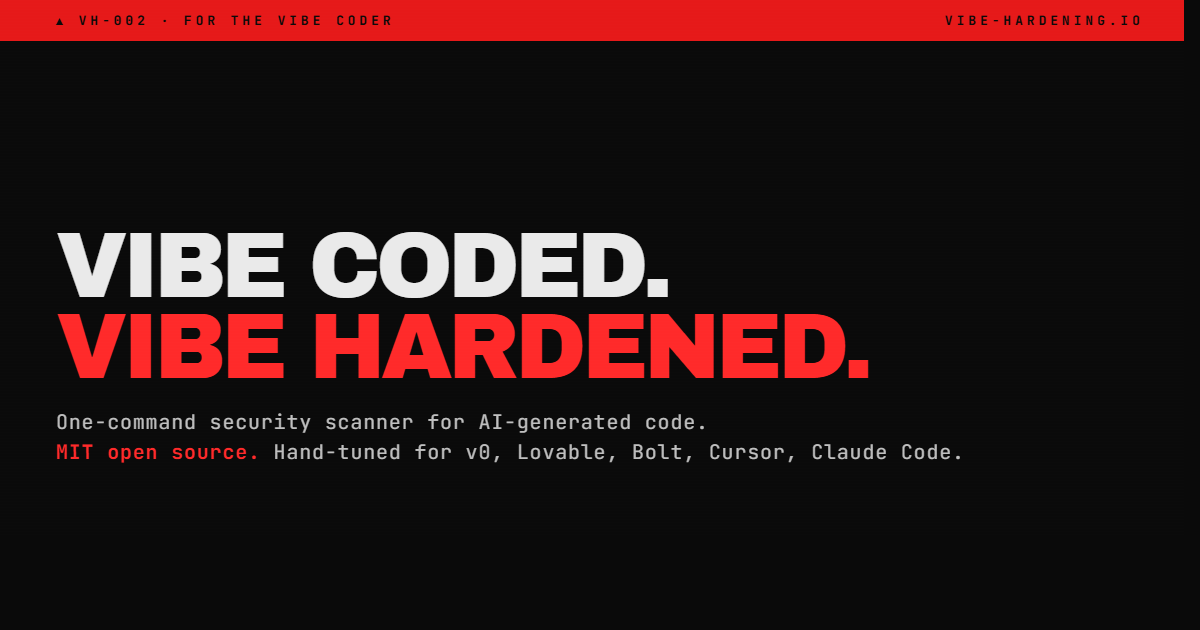
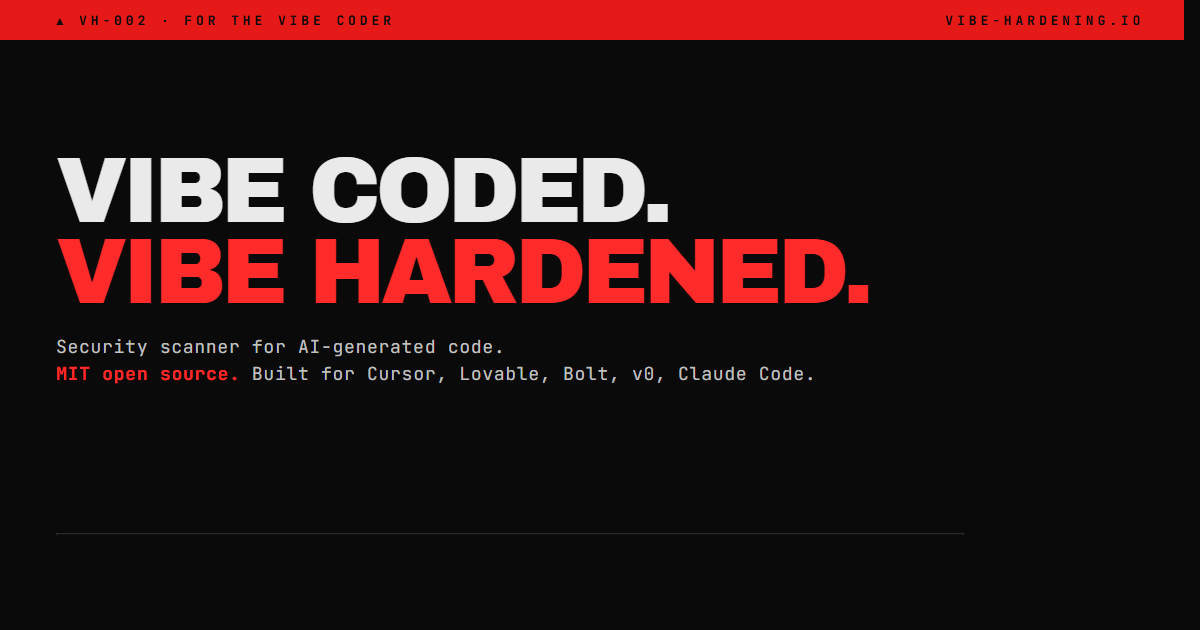
release: 0.1.0 — first non-preview, latest tag promoted
Drops the `-preview.0` suffix that the 0.0.x line carried. No code
changes vs 0.0.20-preview.0 — label-only bump signalling "the
surface area is stable enough to commit to". `latest` dist-tag
already pointed here from the earlier in-session promotion; this
finalises the move with a non-suffixed version number for visual
trust on PH listings, npm package page, and search snippets.

Cumulative state at 0.1.0: 3 commands, 12 scan flags, 4 output
formats (console / json / html / markdown), 51 rules across 9
categories, 9 live-key verifiers, OSV.dev-enriched explain blocks,
GitHub Marketplace listing, 309 unit tests.

Landing REV bumped 0.0.20 → 0.1.0.

diff --git a/web/app/layout.tsx b/web/app/layout.tsx
@@ -36,14 +36,22 @@ const serif = EB_Garamond({
   display: 'swap',
 });
 
+// Social-preview metadata (FB / X / LinkedIn / Slack unfurls).
+// Lengths tuned per opengraph.xyz audit: title 55-60 chars,
+// description 110-160 chars. The browser-tab `<title>` (first
+// `title` field below) stays longer for SEO; OG/Twitter overrides
+// keep the social preview tight and benefit-driven.
+const OG_TITLE = 'vibe-hardening — security scanner for AI-generated code';
+const OG_DESCRIPTION =
+  'Vibe coded. Vibe hardened. One npx command, 51 rules, 9 live secret verifiers. Built for output from Cursor, Lovable, Bolt, v0, Claude Code. MIT.';
+
 export const metadata: Metadata = {
   title: 'vibe-hardening / one-command security scanner for AI-generated code',
-  description:
-    'Vibe coded. Vibe hardened. Security scanner built for v0, Lovable, Bolt, Cursor and Claude Code output. 0 config, 5 seconds.',
+  description: OG_DESCRIPTION,
   metadataBase: new URL('https://vibe-hardening.io'),
   openGraph: {
-    title: 'vibe-hardening',
-    description: 'One-command security scanner for AI-generated code.',
+    title: OG_TITLE,
+    description: OG_DESCRIPTION,
     url: 'https://vibe-hardening.io',
     siteName: 'vibe-hardening',
     type: 'website',
@@ -58,8 +66,8 @@ export const metadata: Metadata = {
   },
   twitter: {
     card: 'summary_large_image',
-    title: 'vibe-hardening',
-    description: 'One-command security scanner for AI-generated code.',
+    title: OG_TITLE,
+    description: OG_DESCRIPTION,
     images: ['/og.png'],
   },
   robots: { index: true, follow: true },

diff --git a/web/app/_lib/strings.ts b/web/app/_lib/strings.ts
@@ -99,7 +99,7 @@ export const strings: Record<Locale, Strings> = {
       'vibe-hardening / one-command security scanner for AI-generated code',
     classbar: {
       unit: '▲ VH-001 · FOR THE VIBE CODER ·',
-      rev: 'REV 0.0.20 · CHAN 20',
+      rev: 'REV 0.1.0 · CHAN 21',
       geo: 'LAT 25.03°N · LNG 121.56°E',
       date: '▲ 2026-04-20 ▲',
     },
@@ -237,7 +237,7 @@ export const strings: Record<Locale, Strings> = {
         'Optional — what do you want this scanner to catch? what AI tool burned you last? (we read every reply)',
     },
     footer: {
-      brandCopy: '© 2026 · MIT · REV 0.0.20',
+      brandCopy: '© 2026 · MIT · REV 0.1.0',
       colProductTitle: 'PRODUCT',
       colProductItems: ['CLI', 'GitHub Action', 'Score Badge'],
       colSourceTitle: 'SOURCE',
@@ -258,7 +258,7 @@ export const strings: Record<Locale, Strings> = {
     title: 'vibe-hardening｜AI 生成程式碼的一鍵資安掃描工具',
     classbar: {
       unit: '▲ VH-001 · 獻給 VIBE CODER ·',
-      rev: 'REV 0.0.20 · CHAN 20',
+      rev: 'REV 0.1.0 · CHAN 21',
       geo: 'LAT 25.03°N · LNG 121.56°E',
       date: '▲ 2026-04-20 ▲',
     },
@@ -395,7 +395,7 @@ export const strings: Record<Locale, Strings> = {
         '想說什麼都可以（選填）—— 你希望這個工具能抓到什麼？哪個 AI 工具最近坑過你？我們會看每一封。',
     },
     footer: {
-      brandCopy: '© 2026 · MIT · REV 0.0.20',
+      brandCopy: '© 2026 · MIT · REV 0.1.0',
       colProductTitle: '產品',
       colProductItems: ['CLI', 'GitHub Action', '分數徽章'],
       colSourceTitle: '原始碼',

diff --git a/CHANGELOG.md b/CHANGELOG.md
@@ -2,10 +2,32 @@
 
 All notable changes to **vibe-hardening** are documented here. Format
 loosely follows [Keep a Changelog](https://keepachangelog.com/) but
-keeps each entry tight enough to read in one breath. The CLI is
-pre-1.0; everything is currently shipped under the npm `preview` tag.
+keeps each entry tight enough to read in one breath.
 
 The PH launch is targeted for **2026-05-13 14:00 UTC**.
+
+## [0.1.0] — 2026-05-02
+
+First non-preview release. Drops the `-preview.0` suffix that the
+previous 0.0.x line carried. No code changes vs 0.0.20-preview.0 —
+this is a label-only bump signalling "the surface area is stable
+enough to commit to". `npx vibe-hardening` now resolves to this
+version by default; older 0.0.13-preview.0 was anchoring the
+`latest` dist-tag, which meant no organic traffic actually got to
+try the features shipped in 0.0.14 → 0.0.20.
+
+Cumulative state at 0.1.0:
+- 3 commands: `scan` / `explain` / `badge`
+- 12 scan flags incl. `--suggest-fix`, `--changed-only`,
+  `--verify --own`, `--roast`, `--compare <baseline>`
+- 4 output formats: console / json / html / markdown
+- 51 rules across 9 categories
+- 9 live-key verifiers (OpenAI / Anthropic / Stripe / GitHub PAT /
+  Slack / SendGrid / Twilio / Notion / Google)
+- `vh explain` enriched with live osv.dev advisory metadata for
+  CVE rules
+- 309 unit tests
+- GitHub Marketplace listing (`vibe-hardening/cli@v1`)
 
 ## [0.0.20-preview.0] — 2026-05-02
 